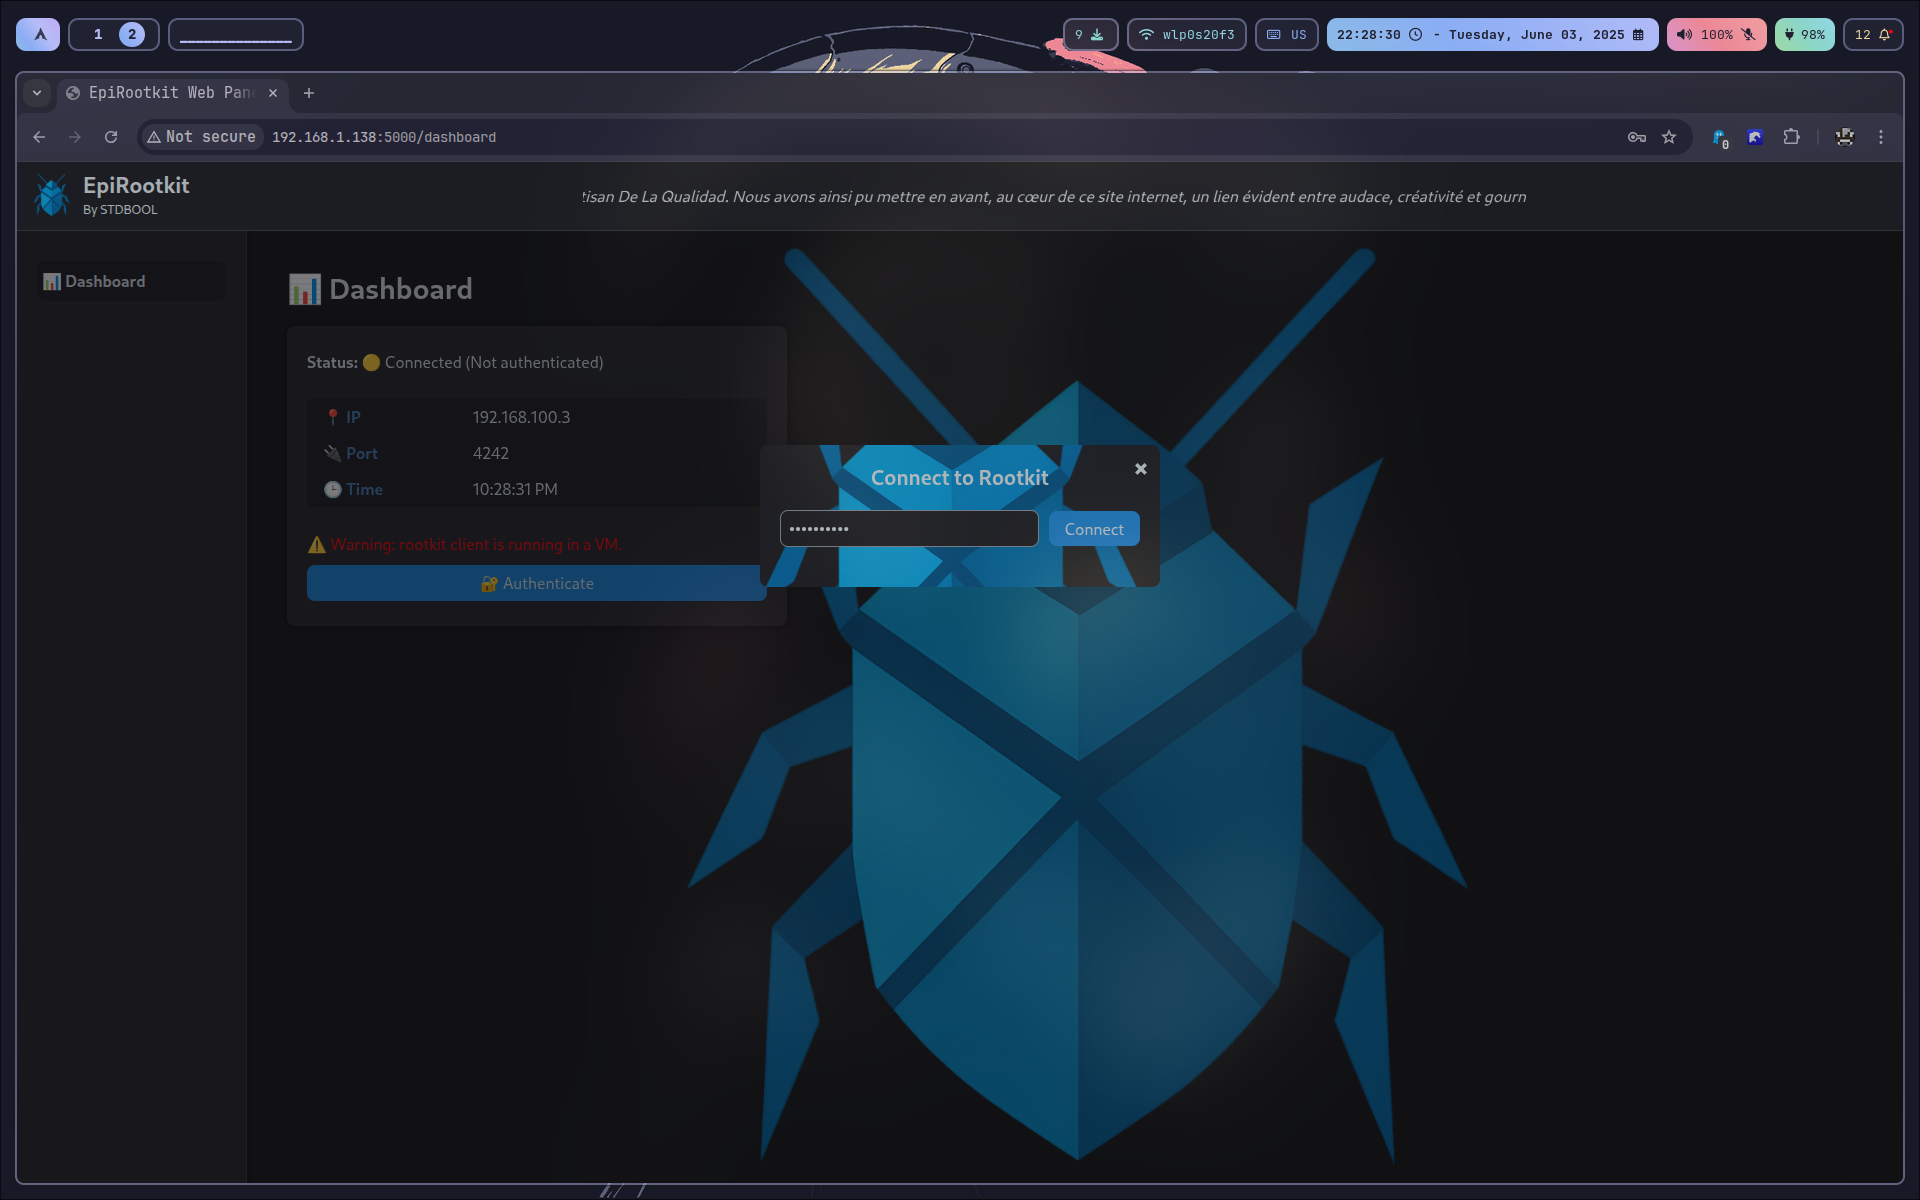
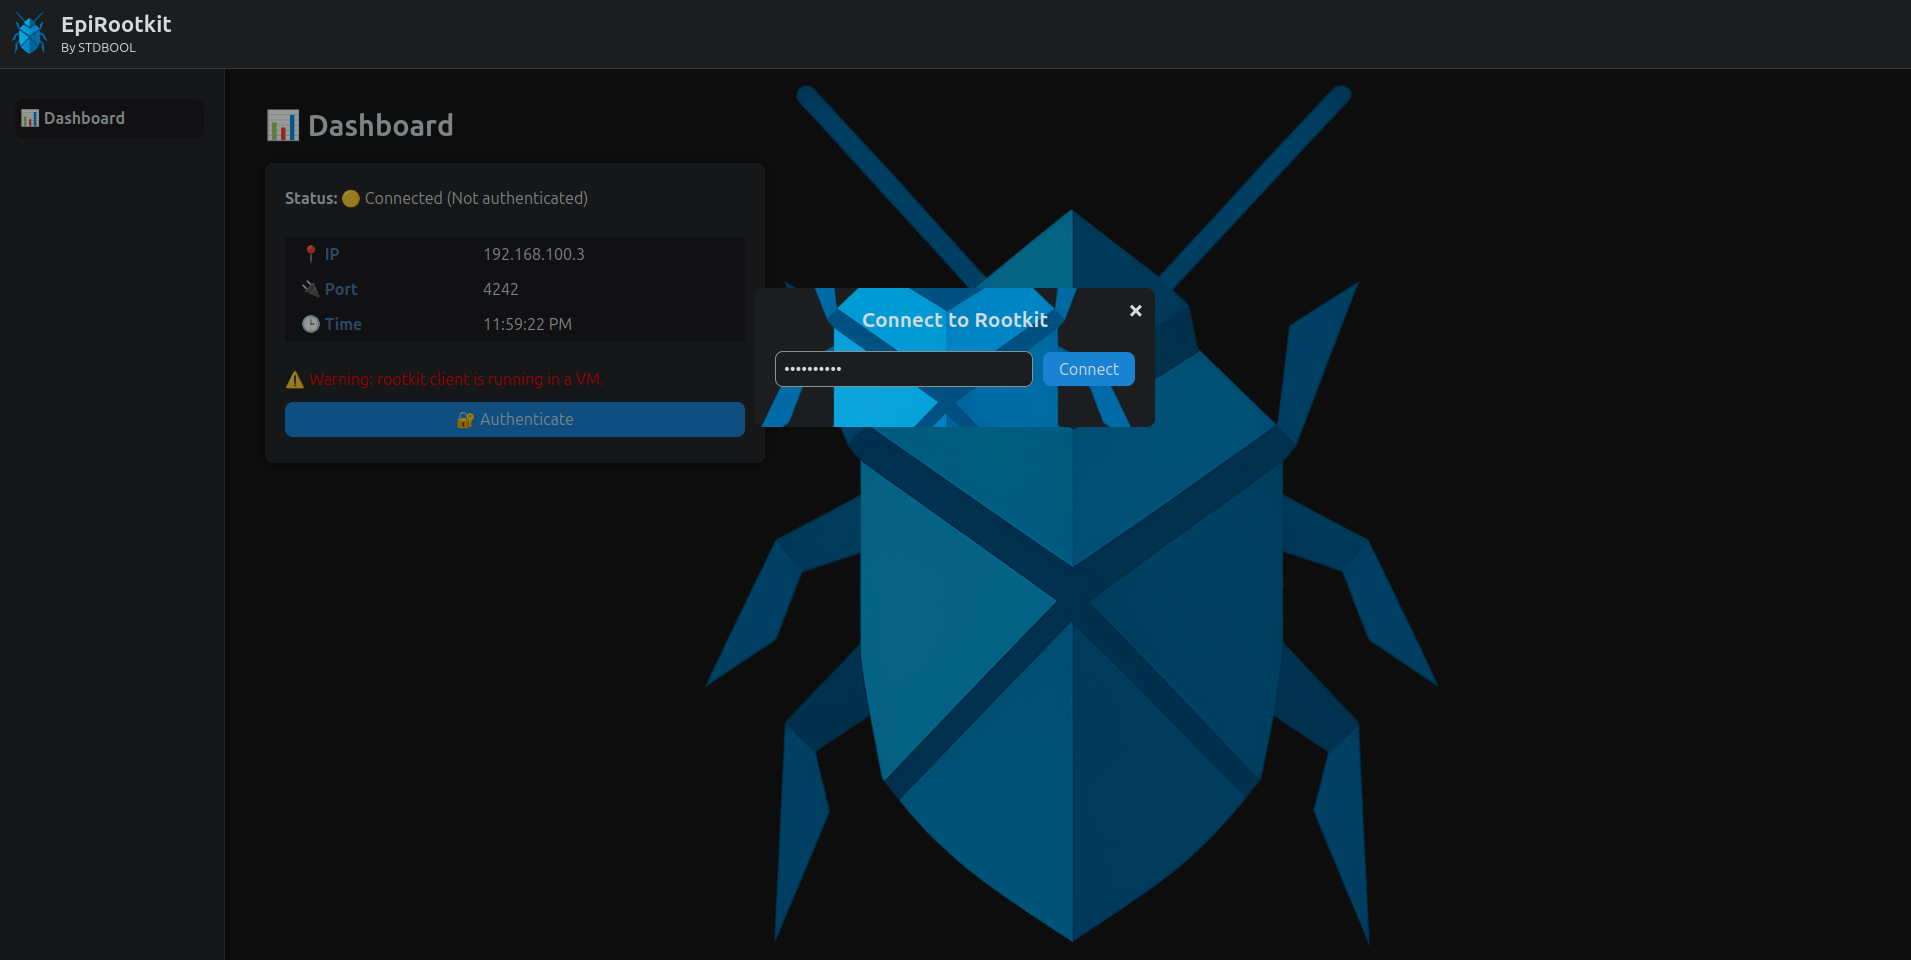
[DOC] replace dashbard images because evann's images were disgusting with its arch.... I lso improved a little bit the text to add disconnect step

diff --git a/docs/pages/04_usage.md b/docs/pages/04_usage.md
@@ -11,7 +11,28 @@ Dans un premier temps, nous expliquerons comment interagir avec l’interface we
 
 ### 1. Connexion {#connexion}
 
-Normalement, à ce stade, vous devriez avoir les deux machines virtuelles ouvertes, avec le serveur Python en cours d’exécution, ainsi que l’interface web si vous avez choisi cette option. Vous devriez alors voir un écran similaire à celui présenté ci-dessous. Le rootkit est détecté et connecté, mais une authentification est nécessaire pour accéder à l’ensemble des fonctionnalités et contrôler la machine victime à distance. Cliquez ensuite sur Authenticate et saisissez le mot de passe `evannounet`. Après quelques instants, le tableau de bord principal de l’application devrait s’afficher.
+Normalement, à ce stade, vous devriez avoir les deux machines virtuelles ouvertes, avec le serveur Python en cours d’exécution.
+
+SI vous vous rendez sur l'interface web de l'attaquant (http://192.168.100.2:5000/), vous devriez voir l'interface d'accueil du rootkit. Si le rootkit n'est pas encore connecté, vous aurez un écran similaire à celui-ci :
+
+\htmlonly
+<figure style="text-align: center;">
+  <img 
+    src="../../../img/disconnected.png" 
+    style="
+      margin: 30px 0px 0px;
+      border-radius: 8px; 
+      width: 100%;
+    "
+  />
+  <figcaption style="margin-top: 0.5em; font-style: italic;">
+    Figure: Screenshot of the attacker's web ui with rootkit disconnected.
+  </figcaption>
+</figure>
+\endhtmlonly
+
+Lorsque le rootkit sera détecté puis connecté au server TCP du backend, l'interface changera pour devenir :
+
 \htmlonly
 <figure style="text-align: center;">
   <img 
@@ -27,6 +48,12 @@ Normalement, à ce stade, vous devriez avoir les deux machines virtuelles ouvert
   </figcaption>
 </figure>
 \endhtmlonly
+
+Cependant une authentification est nécessaire pour accéder à l’ensemble des fonctionnalités et contrôler la machine victime à distance. 
+
+Cliquez ensuite sur Authenticate et saisissez le mot de passe `evannounet`. 
+Après quelques instants, le tableau de bord principal de l’application devrait s’afficher :
+
 \htmlonly
 <figure style="text-align: center;">
   <img 
